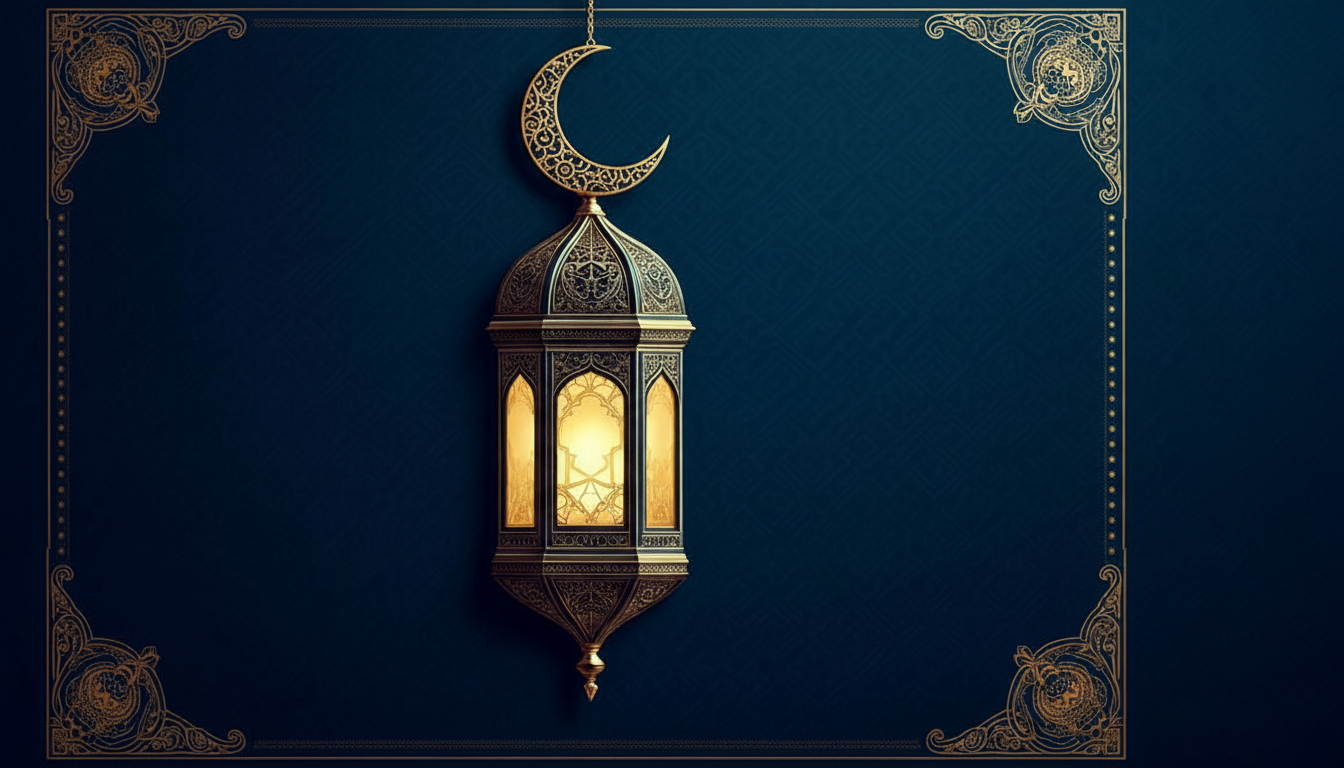
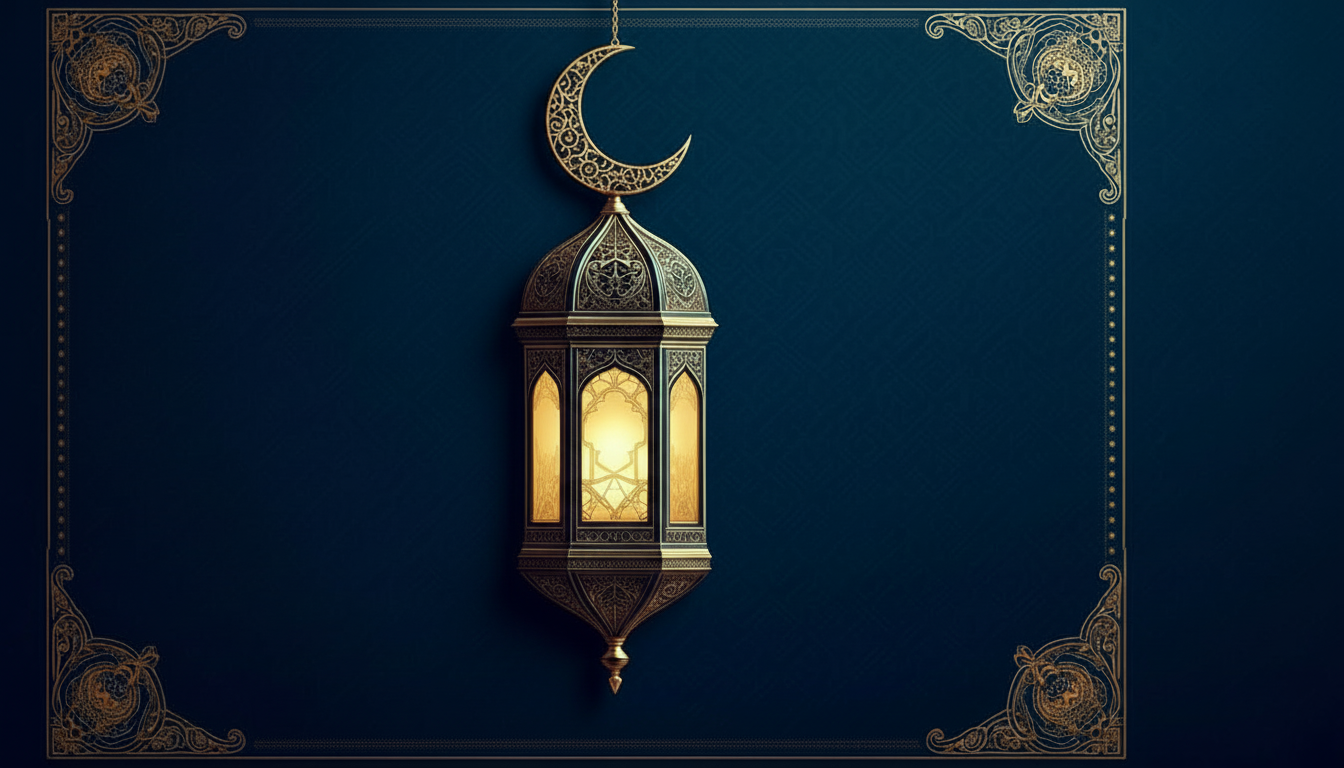
Changes

diff --git a/src/components/riyadh-suhoor/EventHeader.tsx b/src/components/riyadh-suhoor/EventHeader.tsx
@@ -30,7 +30,7 @@ const EventHeader = ({ onRequestClick }: EventHeaderProps) => {
                 <img
                   src={heroImage}
                   alt="Riyadh Suhoor Dinner — NIAS Private Gathering"
-                  className="w-full h-auto rounded-lg shadow-xl object-cover"
+                  className="w-full h-auto rounded-lg shadow-xl object-cover object-center"
                 />
                 <div className="absolute bottom-0 left-0 right-0 h-1 bg-gradient-to-r from-border via-muted to-border rounded-b-lg opacity-60" />
               </div>
